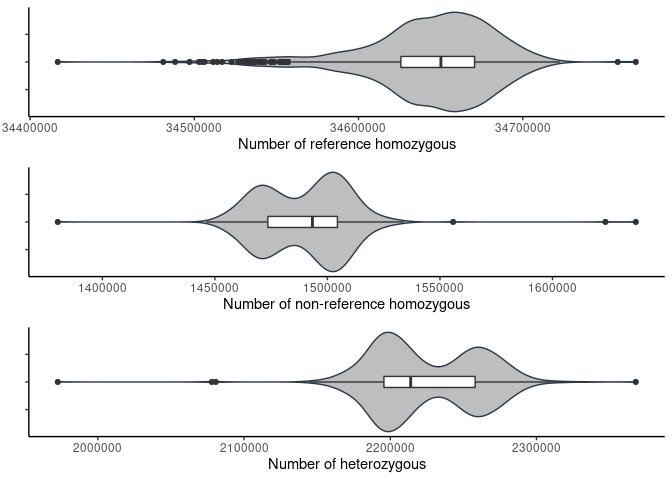
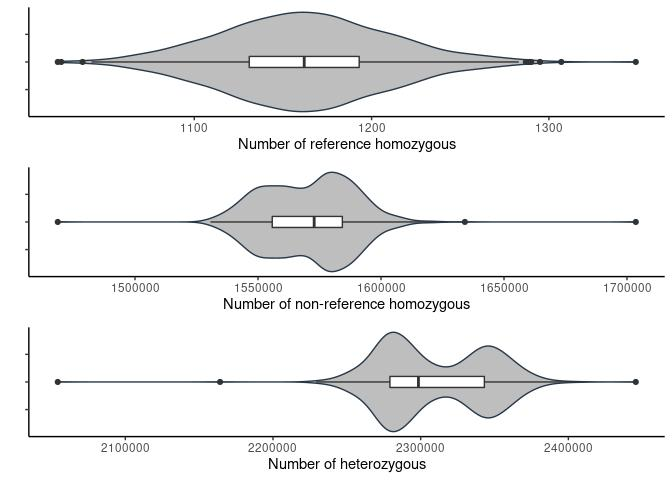
update

diff --git a/qc/qc.md b/qc/qc.md
@@ -44,86 +44,15 @@ Total reads outliers
 <!-- img1 <- readPNG(img1_path, native = TRUE, info = TRUE) -->
 <!-- include_graphics(img1_path) -->
 <!-- ``` -->
-
-Call rate missing outliers
-
-| sample |  F\_MISS |
-|-------:|---------:|
-|      7 | 0.003050 |
-|     23 | 0.003059 |
-|     16 | 0.003070 |
-|     45 | 0.003072 |
-|      1 | 0.003084 |
-|     72 | 0.003087 |
-|     47 | 0.003105 |
-|     66 | 0.003135 |
-|     20 | 0.003162 |
-|     64 | 0.003166 |
-|     54 | 0.003173 |
-|     24 | 0.003184 |
-|     60 | 0.003184 |
-|     17 | 0.003198 |
-|     55 | 0.003207 |
-|     70 | 0.003209 |
-|     19 | 0.003213 |
-|     27 | 0.003216 |
-|     52 | 0.003217 |
-|     73 | 0.003230 |
-|     50 | 0.003245 |
-|     75 | 0.003265 |
-|     67 | 0.003270 |
-|      5 | 0.003286 |
-|     43 | 0.003295 |
-|     74 | 0.003308 |
-|     69 | 0.003317 |
-|     68 | 0.003325 |
-|      8 | 0.003325 |
-|     35 | 0.003335 |
-|     14 | 0.003353 |
-|     57 | 0.003358 |
-|     15 | 0.003375 |
-|     63 | 0.003387 |
-|     42 | 0.003389 |
-|     53 | 0.003394 |
-|     61 | 0.003396 |
-|     22 | 0.003398 |
-|     51 | 0.003412 |
-|     40 | 0.003424 |
-|     56 | 0.003441 |
-|     18 | 0.003452 |
-|     48 | 0.003454 |
-|      2 | 0.003465 |
-|     33 | 0.003467 |
-|     13 | 0.003488 |
-|     29 | 0.003537 |
-|     49 | 0.003586 |
-|     38 | 0.003599 |
-|     36 | 0.003623 |
-|     11 | 0.003664 |
-|     41 | 0.003668 |
-|     65 | 0.003669 |
-|     12 | 0.003673 |
-|     28 | 0.003679 |
-|     32 | 0.003693 |
-|      9 | 0.003697 |
-|     58 | 0.003714 |
-|     37 | 0.003714 |
-|      3 | 0.003727 |
-|     10 | 0.003761 |
-|     62 | 0.003785 |
-|      6 | 0.003792 |
-|     25 | 0.003796 |
-|     34 | 0.003806 |
-|     71 | 0.003827 |
-|     30 | 0.003829 |
-|     31 | 0.003891 |
-|     21 | 0.003979 |
-|      4 | 0.003984 |
-|     26 | 0.004078 |
-|     44 | 0.004117 |
-|     39 | 0.004203 |
-|     46 | 0.004623 |
-|     59 | 0.005607 |
+<!-- Call rate missing outliers  -->
+<!-- ```{r echo=FALSE} -->
+<!-- imiss <- fread('../output/plink_stats/plink.imiss') -->
+<!-- colnames(imiss)[2] <- 'sample' -->
+<!-- imiss_out <- imiss %>% select(sample,F_MISS) %>%  -->
+<!--         filter(F_MISS %in% outlier(imiss$F_MISS)) %>% arrange(F_MISS) %>% -->
+<!--   mutate(sample = as.numeric(factor(sample))) -->
+<!-- kable(imiss_out)  -->
+<!-- ``` -->
 
 ## 2. Depth statistics
 
@@ -155,86 +84,43 @@ Average depth outliers
 
 ## 3. Per sample count (PSC)
 
-| stat           |        min |     median |        mean |        max |
-|:---------------|-----------:|-----------:|------------:|-----------:|
-| average\_depth |       26.1 |       29.9 |       29.96 |       40.6 |
-| nHets          |  1972575.0 |  2213956.0 |  2224784.62 |  2367896.0 |
-| nIndels        |   737369.0 |   764415.0 |   764796.61 |   777759.0 |
-| nMissing       |   118154.0 |   154138.0 |   163614.79 |   385948.0 |
-| nNonRefHom     |  1380158.0 |  1493329.0 |  1489948.72 |  1637009.0 |
-| nRefHom        | 34416873.0 | 34650179.0 | 34643796.04 | 34768856.0 |
-| nSingletons    |     3202.0 |    15536.0 |    15877.03 |   123142.0 |
-| nTransitions   |  2414461.0 |  2491680.0 |  2493688.50 |  2556378.0 |
-| nTransversions |  1181616.0 |  1220362.5 |  1221044.84 |  1250840.0 |
+| stat           |       min |    median |       mean |       max |
+|:---------------|----------:|----------:|-----------:|----------:|
+| average\_depth |      30.2 |      37.4 |      37.36 |      50.8 |
+| nHets          | 2054243.0 | 2298485.0 | 2309068.41 | 2445661.0 |
+| nIndels        |  792212.0 |  810419.0 |  809993.53 |  823059.0 |
+| nMissing       |  131373.0 |  150815.0 |  150664.07 |  162078.0 |
+| nNonRefHom     | 1468590.0 | 1572835.0 | 1570618.31 | 1703573.0 |
+| nRefHom        |    1023.0 |    1162.0 |    1162.60 |    1349.0 |
+| nSingletons    | 4550115.0 | 4686524.0 | 4689789.11 | 4766110.0 |
+| nTransitions   | 2505851.0 | 2584424.0 | 2586949.43 | 2630499.0 |
+| nTransversions | 1251965.0 | 1291490.0 | 1292737.29 | 1316387.0 |
 
 ![](qc_files/figure-gfm/psc-1.jpeg)<!-- -->
 
 PSC outliers
 
-| sample |  nRefHom |
-|-------:|---------:|
-|   1012 | 34416873 |
-|    513 | 34481136 |
-|     90 | 34488359 |
-|    138 | 34497146 |
-|    658 | 34502907 |
-|    155 | 34504710 |
-|    233 | 34506196 |
-|     86 | 34511535 |
-|    207 | 34514003 |
-|     61 | 34516923 |
-|    139 | 34522796 |
-|    149 | 34526772 |
-|    194 | 34527426 |
-|    141 | 34527828 |
-|   1024 | 34528074 |
-|     91 | 34529684 |
-|     56 | 34531574 |
-|    231 | 34533006 |
-|     93 | 34534559 |
-|   1010 | 34535110 |
-|    498 | 34535445 |
-|    982 | 34535790 |
-|    676 | 34536944 |
-|   1017 | 34537082 |
-|     92 | 34537280 |
-|    112 | 34539593 |
-|   1020 | 34541003 |
-|   1018 | 34541159 |
-|   1028 | 34542042 |
-|    104 | 34542922 |
-|   1015 | 34543006 |
-|    232 | 34546653 |
-|     98 | 34546887 |
-|    140 | 34547451 |
-|   1016 | 34547631 |
-|    147 | 34548486 |
-|    153 | 34548588 |
-|    998 | 34551969 |
-|     80 | 34552621 |
-|    990 | 34553063 |
-|   1026 | 34553154 |
-|    675 | 34553303 |
-|    214 | 34554043 |
-|   1008 | 34554207 |
-|   1025 | 34554763 |
-|   1014 | 34555696 |
-|    221 | 34556335 |
-|   1023 | 34556404 |
-|   1002 | 34557303 |
-|    218 | 34757877 |
-|    115 | 34768856 |
+| sample | nRefHom |
+|-------:|--------:|
+|    185 |    1023 |
+|   1001 |    1025 |
+|    532 |    1037 |
+|    713 |    1287 |
+|    592 |    1288 |
+|    108 |    1289 |
+|    665 |    1290 |
+|    546 |    1295 |
+|   1116 |    1307 |
+|    675 |    1349 |
 
 | sample | nNonRefHom |
 |-------:|-----------:|
-|    658 |    1380158 |
-|    218 |    1555838 |
-|    115 |    1623502 |
-|    508 |    1637009 |
+|    640 |    1468590 |
+|    200 |    1634096 |
+|     96 |    1703573 |
 
 | sample |   nHets |
 |-------:|--------:|
-|    658 | 2367896 |
-|    218 | 2080638 |
-|    508 | 2077887 |
-|    115 | 1972575 |
+|     96 | 2054243 |
+|    200 | 2164166 |
+|    640 | 2445661 |

diff --git a/results_to_paper.md b/results_to_paper.md
@@ -19,15 +19,15 @@
 
 | VARIANT\_CLASS | AF       | HIGH |   LOW | MODERATE | MODIFIER |
 |:---------------|:---------|-----:|------:|---------:|---------:|
-| deletion       | &gt;0.5% |  500 |  1090 |      680 |  1697005 |
-| insertion      | &gt;0.5% |  327 |  1280 |      630 |  1934758 |
-| SNV            | &gt;0.5% | 1446 | 45903 |    39096 | 15294308 |
-| deletion       | 0.1-0.5% |  813 |   582 |      859 |   885811 |
-| insertion      | 0.1-0.5% |  407 |   648 |      573 |  1010671 |
-| SNV            | 0.1-0.5% | 1723 | 32131 |    41239 |  9509163 |
-| deletion       | &lt;0.1% | 2600 |   946 |     1684 |  1383954 |
-| insertion      | &lt;0.1% | 1219 |   773 |      983 |  1062161 |
-| SNV            | &lt;0.1% | 4967 | 68293 |   100838 | 19225909 |
+| deletion       | &gt;0.5% |  412 |   855 |      603 |  1208322 |
+| insertion      | &gt;0.5% |  260 |   977 |      573 |  1380654 |
+| SNV            | &gt;0.5% | 1109 | 41402 |    35717 | 10877171 |
+| deletion       | 0.1-0.5% |  392 |   316 |      492 |   433985 |
+| insertion      | 0.1-0.5% |  197 |   376 |      345 |   529654 |
+| SNV            | 0.1-0.5% |  852 | 18675 |    23682 |  4375036 |
+| deletion       | &lt;0.1% | 2849 |  1003 |     1988 |  1295678 |
+| insertion      | &lt;0.1% | 1382 |   826 |     1144 |  1037730 |
+| SNV            | &lt;0.1% | 5432 | 80467 |   119843 | 17817903 |
 
 **Table X.X: Summary of variant counts in three population frequencies**
 

diff --git a/supplementary.md b/supplementary.md
@@ -4,17 +4,17 @@
 #### 1.1 Depth statistics
 
 
-**Supplementary Table 1.1: Coverage statistics for all 1082 samples analysed in the project.**
+**Supplementary Table 1.1: Coverage statistics for all 1230 samples analysed in the project.**
 | stat                  |   min | median |  mean |   max |
 |:----------------------|------:|-------:|------:|------:|
-| average\_depth        | 29.09 |  35.75 | 35.72 | 45.75 |
-| percentage\_above\_10 | 91.40 |  91.98 | 91.92 | 92.34 |
-| percentage\_above\_20 | 85.61 |  89.27 | 89.37 | 91.27 |
-| percentage\_above\_30 | 53.66 |  79.59 | 78.41 | 90.00 |
+| average\_depth        | 28.40 |  35.41 | 35.26 | 48.10 |
+| percentage\_above\_10 | 91.40 |  91.93 | 91.90 | 92.41 |
+| percentage\_above\_20 | 84.15 |  89.11 | 89.19 | 91.27 |
+| percentage\_above\_30 | 49.05 |  78.69 | 76.84 | 90.00 |
 
 
 **Supplementary Figure 1.1: Distribution of mean coverage in the cohort.**
-![Suppl. Figure 1.1 - Mean coverage](https://github.com/MNMdiagnostics/NaszeGenomy/raw/main/qc/qc_files/figure-gfm/average_depth-1.png) 
+![Suppl. Figure 1.1 - Mean coverage](https://github.com/MNMdiagnostics/NaszeGenomy/raw/main/qc/qc_files/figure-gfm/average_depth-1.jpeg) 
 
 
 
